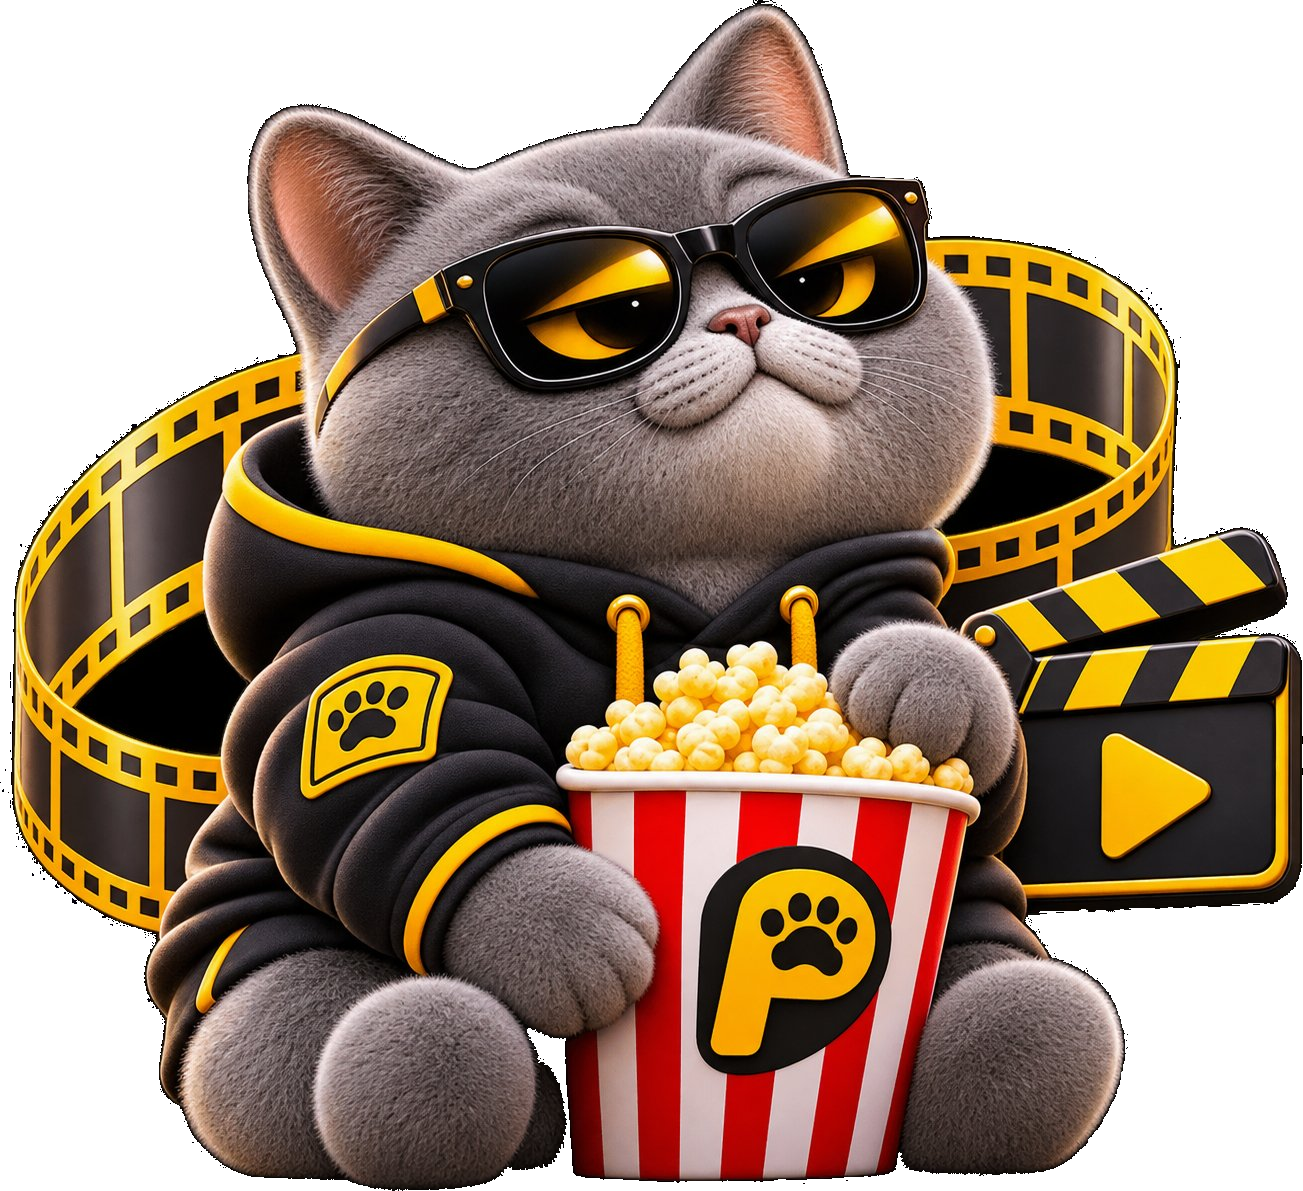
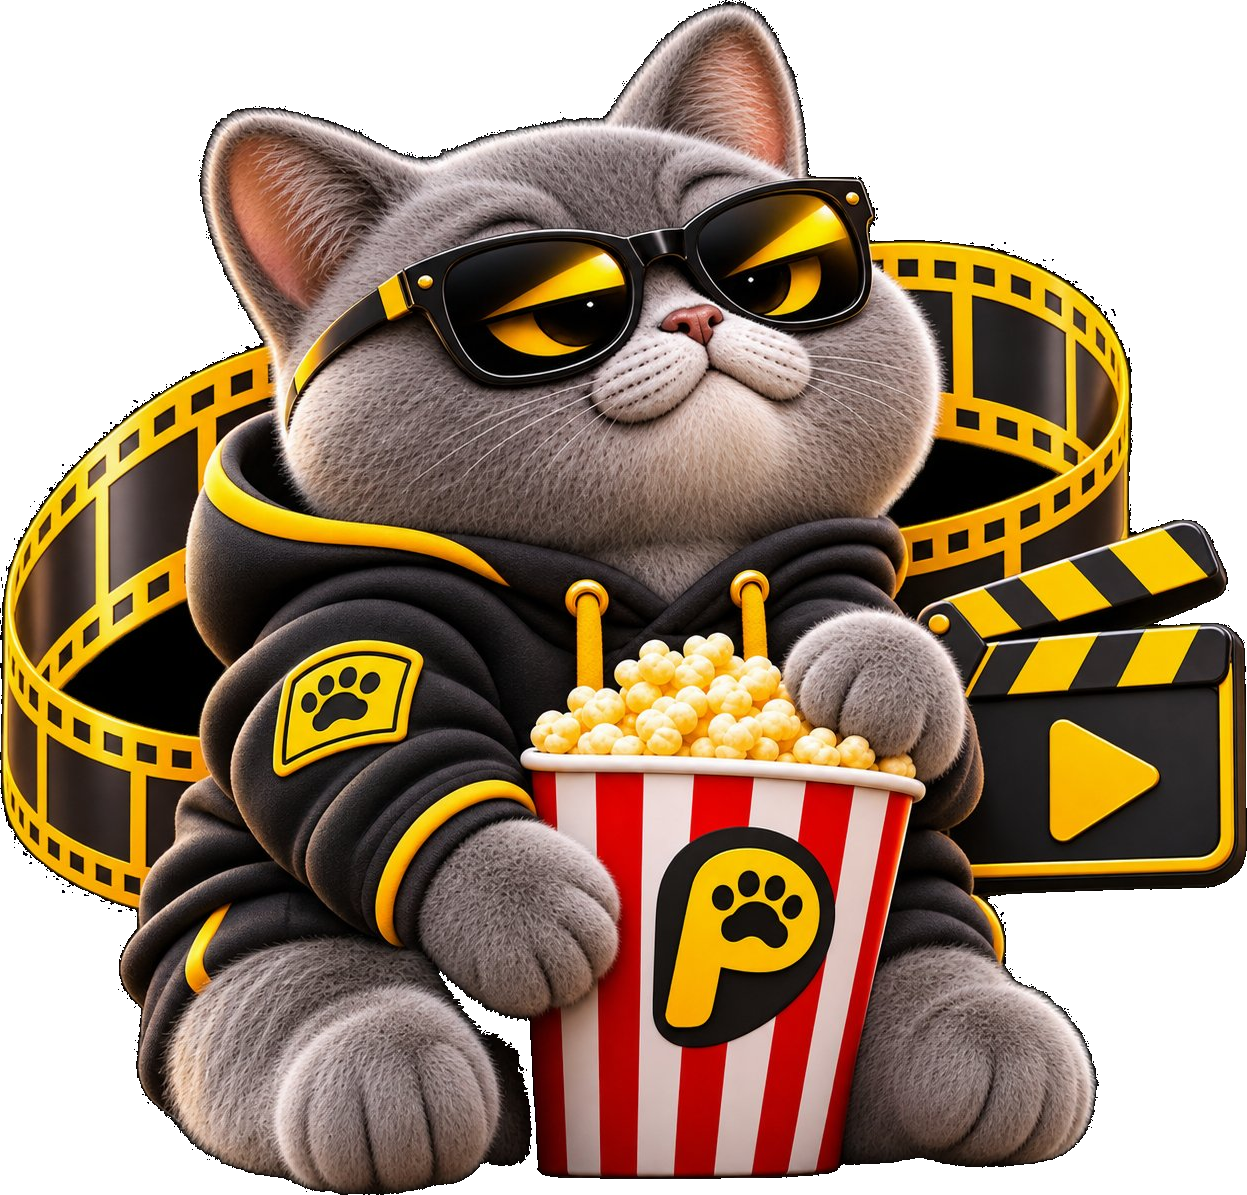
pawflix welcome preview v4: new realistic 3D cat mascot from Denis

diff --git a/preview/pawflix-welcome-preview.html b/preview/pawflix-welcome-preview.html
@@ -3,7 +3,7 @@
 <head>
 <meta charset="UTF-8">
 <meta name="viewport" content="width=device-width, initial-scale=1, viewport-fit=cover">
-<title>pawflix — приветствие (превью v3)</title>
+<title>pawflix — приветствие (превью v4)</title>
 <link rel="preconnect" href="https://fonts.googleapis.com">
 <link rel="preconnect" href="https://fonts.gstatic.com" crossorigin>
 <link href="https://fonts.googleapis.com/css2?family=Manrope:wght@400;500;600;700;800&display=swap" rel="stylesheet">
@@ -127,7 +127,7 @@
     <button data-variant="tv">ТВ</button>
     <button class="active" data-variant="phone">Телефон</button>
   </div>
-  <div class="caption"><b>Превью v3: welcome-экран pawflix.</b> Фразы, длительность загрузки и кнопка входа — из файла Denis 1:1: 15 смешных фраз про котика и попкорн, прогресс идёт рывками (быстро в начале, медленно к концу), в конце — «Всё готово! Котик ждёт вас 🐾» и кнопка «▶ Войти в Pawflix». Котик на телефоне поднят выше, буква P — из PNG Denis. Стена постеров — как в «Кино»; на ТВ постеров в ряду 24 вместо 17.</div>
+  <div class="caption"><b>Превью v4: welcome-экран pawflix.</b> Котик заменён на новый вариант Denis — реалистичный 3D-кот в очках, с красно-белым ведёрком попкорна, киноплёнкой и хлопушкой. Фразы, длительность загрузки и кнопка входа — из файла Denis 1:1: 15 смешных фраз, прогресс рывками, в конце — «Всё готово! Котик ждёт вас 🐾» и кнопка «▶ Войти в Pawflix». Котик на телефоне поднят выше, буква P — из PNG Denis. Стена постеров — как в «Кино»; на ТВ постеров в ряду 24 вместо 17.</div>
 </div>
 <div class="toast" id="toast">В приложении откроется главная</div>
 
